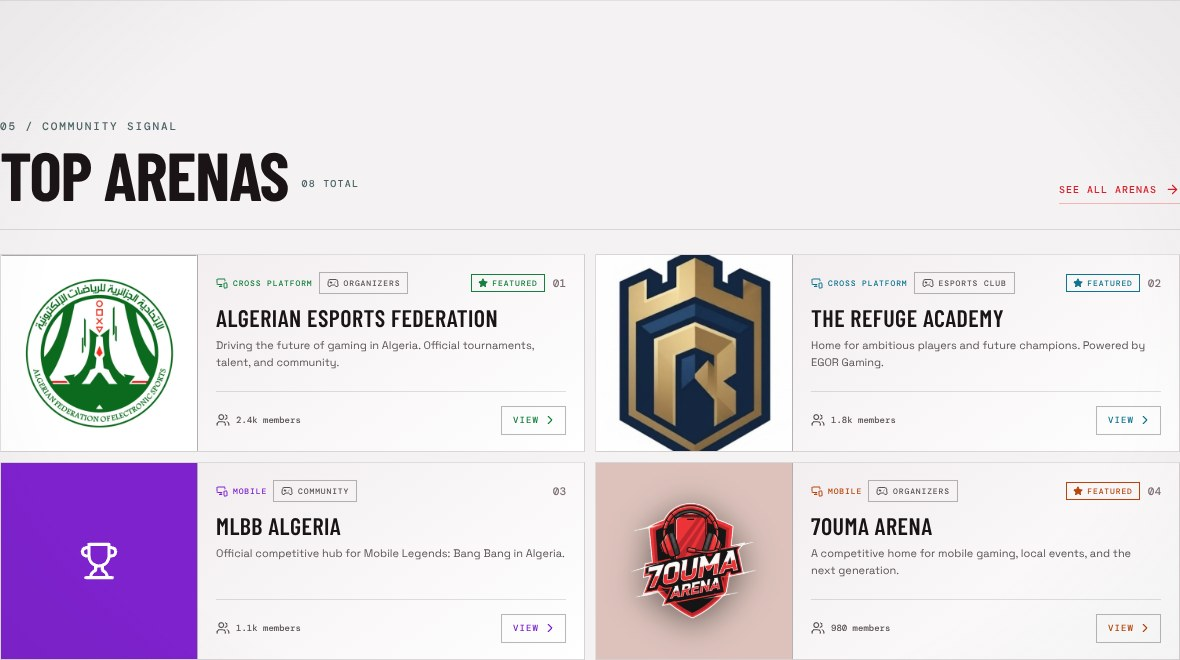
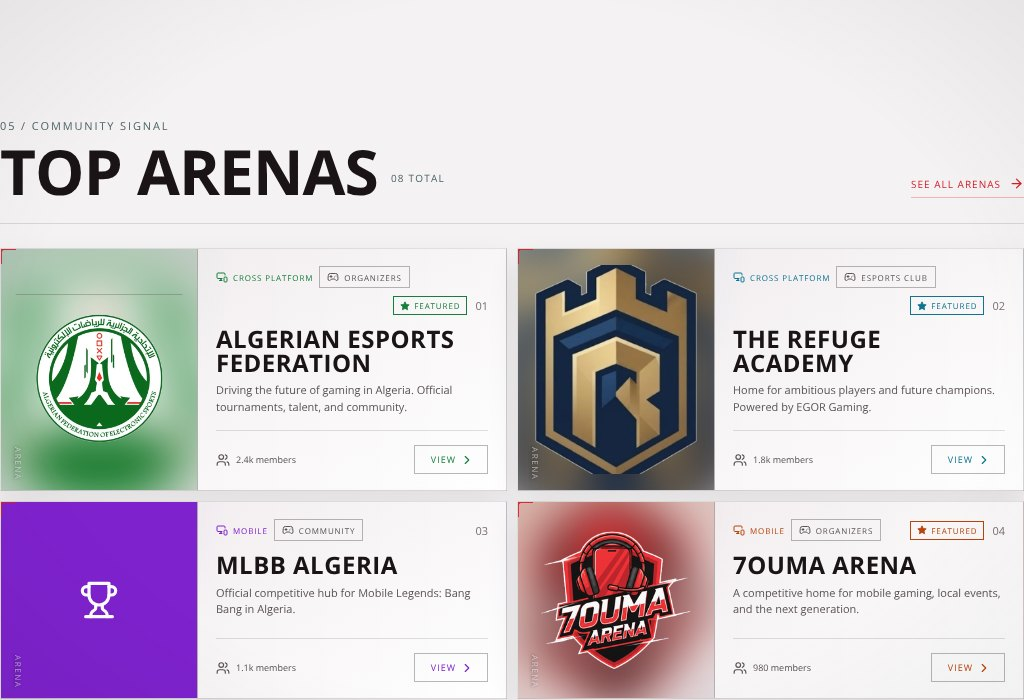
fix(arena cards): fill the whole left panel of section 05 cards
The emblem next to each arena in 05 / COMMUNITY SIGNAL was a 196x196 tile
vertically centred inside the card, so cards whose copy wrapped taller (the
first row) showed an empty band above and below the logo, and avatars that
shipped on a white JPEG canvas rendered as small white squares.

- .arena-emblem now stretches to the card's full height (align-self: stretch)
  and keeps its fixed width, i.e. a full-bleed panel at the card's left edge,
  flush with the top and bottom borders in every row height.
- The logo itself is drawn with object-fit: contain (plus a small inset) so no
  crest, shield or circle gets cropped, while the panel behind it is filled to
  the edges by a blurred, scale-up copy of the same artwork (::before with
  --arena-logo) - no bare card background can show through.
- Cut the white background off the two JPEG avatars (arena-42, arena-39) and
  shipped them as alpha WebP, which is what makes a full-bleed panel possible
  without a visible white box. Dropped the now-unused emblemFit 'float' mode.
- Kept the avatar-less card's solid accent tile with its white trophy; added a
  text-shadow to the vertical ARENA label so it stays legible on light
  backfills. Refreshed docs/screenshots for both themes.

diff --git a/client/src/index.css b/client/src/index.css
@@ -1008,8 +1008,8 @@ a {
 .arena-section {
   padding-top: 112px;
 }
-/* Section 05 — horizontal cards: a square emblem tile bleeds off the left edge,
-   the arena copy and its button live in the rectangle on the right. */
+/* Section 05 — horizontal cards: the arena emblem fills the card's whole left
+   edge, the arena copy and its button live in the rectangle on the right. */
 .arena-grid {
   display: grid;
   grid-template-columns: repeat(2, minmax(0, 1fr));
@@ -1018,7 +1018,8 @@ a {
 }
 .arena-card {
   --accent: var(--lime);
-  /* Reference square size; the tile keeps this height even if the copy grows. */
+  /* Reference height: the card is never shorter than this, and the emblem
+     strip below stretches to whatever height the row ends up with. */
   --arena-square: 196px;
   display: grid;
   grid-template-columns: auto minmax(0, 1fr);
@@ -1043,46 +1044,50 @@ a {
   transform: translateY(-5px);
   border-color: var(--accent);
 }
-/* Left square — the same avatar tile the live lobby puts on each arena card
-   (uploads/arenas/<id>/avatar), scaled up to fill the card's left edge. */
+/* Left strip — the same avatar the live lobby puts on each arena card
+   (uploads/arenas/<id>/avatar), bled across the card's entire left edge.
+   It is a full-height panel, never a floating square: `align-self: stretch`
+   keeps it flush with the card's top and bottom whatever the copy next to it
+   does, so no empty band can appear above or below the logo. */
 .arena-emblem {
   position: relative;
   display: grid;
   place-items: center;
-  align-self: center;
+  align-self: stretch;
   width: var(--arena-square);
-  height: var(--arena-square);
   overflow: hidden;
   background: var(--surface-3);
   color: #fff;
-  transition:
-    border-color 0.2s,
-    background 0.2s;
 }
+/* Backfill: the arena's own artwork, scaled past the strip and blurred, so the
+   panel is completely filled edge to edge no matter what shape the logo is
+   (round crest, shield, alpha-cut PNG, square photo). */
+.arena-emblem::before {
+  content: "";
+  position: absolute;
+  inset: -14%;
+  background-image: var(--arena-logo, none);
+  background-position: center;
+  background-size: cover;
+  filter: blur(22px) saturate(1.15);
+  transform: scale(1.08);
+}
+/* Foreground: the untouched emblem, `contain` so no crest ever gets sliced,
+   sitting on top of its own backfill. */
 .arena-emblem img {
+  position: relative;
   width: 100%;
   height: 100%;
-  object-fit: cover;
+  padding: 7%;
+  object-fit: contain;
   transition: transform 0.25s var(--ease);
 }
 /* No avatar on the original either — solid tone tile with a white trophy. */
 .arena-emblem--empty {
   background: var(--accent);
-  border-color: var(--accent);
 }
-/* Alpha-cut crest: tone wash instead of a hard tile, trimmed logo floats. */
-.arena-emblem--float::before {
-  content: "";
-  position: absolute;
-  inset: 0;
-  background: var(--accent);
-  opacity: 0.16;
-}
-.arena-emblem--float img {
-  position: relative;
-  object-fit: contain;
-  padding: 14%;
-  filter: drop-shadow(0 6px 16px rgb(0 0 0 / 0.5));
+.arena-emblem--empty::before {
+  display: none;
 }
 .arena-card:hover .arena-emblem img {
   transform: scale(1.05);
@@ -3826,7 +3831,9 @@ html:not(.dark) .egor-search-external-link {
   transition: opacity 0.25s;
 }
 .arena-card:hover::after { opacity: 1; }
-.arena-emblem {
+/* Tone wash for strips that carry artwork. The avatar-less strip keeps its
+   solid accent fill (and its white trophy) from the base rule above. */
+.arena-emblem:not(.arena-emblem--empty) {
   background: linear-gradient(145deg, color-mix(in srgb, var(--accent) 24%, var(--surface-3)), var(--surface-3));
 }
 .arena-emblem::after {
@@ -3835,6 +3842,9 @@ html:not(.dark) .egor-search-external-link {
   left: 12px;
   bottom: 10px;
   color: rgba(255, 255, 255, 0.55);
+  /* Cards whose artwork backfills the strip in a light tone (white logo
+     canvases) would swallow the label without this. */
+  text-shadow: 0 1px 3px rgba(0, 0, 0, 0.5);
   font: 500 8px var(--mono);
   letter-spacing: 0.2em;
   writing-mode: vertical-rl;

diff --git a/client/src/pages/Home.tsx b/client/src/pages/Home.tsx
@@ -300,9 +300,12 @@ export const getGameForItem = (gameName: string): GameItem => {
  *
  *  - `logo` holds the arena's own emblem, taken straight from the original
  *    uploads (`https://app.egorgaming.com/uploads/arenas/<id>/avatar/…`) and
- *    shipped from `client/public/arenas/`. Arenas that have no avatar of their
- *    own get the same fallback the original renders: a solid tile with a white
- *    trophy (see the markup below).
+ *    shipped from `client/public/arenas/`. The two original JPEG avatars came on
+ *    a white canvas, so their background was cut out before shipping (alpha
+ *    WebP) — that is what lets the emblem bleed across the card's full-height
+ *    left strip instead of showing up as a small white square. Arenas that have
+ *    no avatar of their own get the same fallback the original renders: a solid
+ *    tile with a white trophy (see the markup below).
  *  - `platform` / `category` are the two chips printed under each card on the
  *    original — platform uses `MonitorSmartphone`, the category pill uses
  *    `Gamepad2`, both lucide icons, exactly like the source site.
@@ -319,11 +322,6 @@ const arenas: {
   tone: string;
   featured?: boolean;
   logo?: string;
-  /**
-   * `tile` (default) fills the emblem frame with a raster avatar the way the
-   * original does; `float` keeps an alpha-cut emblem floating on the card.
-   */
-  emblemFit?: "tile" | "float";
 }[] = [
   {
     name: "ALGERIAN ESPORTS FEDERATION",
@@ -334,7 +332,7 @@ const arenas: {
     desc: "Driving the future of gaming in Algeria. Official tournaments, talent, and community.",
     tone: "lime",
     featured: true,
-    logo: "/arenas/arena-42.jpg",
+    logo: "/arenas/arena-42.webp",
   },
   {
     name: "THE REFUGE ACADEMY",
@@ -345,7 +343,7 @@ const arenas: {
     desc: "Home for ambitious players and future champions. Powered by EGOR Gaming.",
     tone: "blue",
     featured: true,
-    logo: "/arenas/arena-39.jpg",
+    logo: "/arenas/arena-39.webp",
   },
   {
     name: "MLBB ALGERIA",
@@ -367,7 +365,6 @@ const arenas: {
     tone: "orange",
     featured: true,
     logo: "/arenas/7ouma-arena.png",
-    emblemFit: "float",
   },
 ];
 
@@ -1324,11 +1321,20 @@ export default function Home() {
                 className={`arena-card arena-card--${arena.tone}`}
                 key={arena.name}
               >
-                {/* Left square: the arena emblem tile the lobby uses as avatar. */}
+                {/* Left strip: the arena emblem bled across the card's full
+                    left edge — the panel is as tall as the card, and the
+                    artwork backfills it (see .arena-emblem in index.css). */}
                 <div
                   className={`arena-emblem${
                     arena.logo ? "" : " arena-emblem--empty"
-                  }${arena.emblemFit === "float" ? " arena-emblem--float" : ""}`}
+                  }`}
+                  style={
+                    arena.logo
+                      ? ({
+                          "--arena-logo": `url(${assetUrl(arena.logo)})`,
+                        } as CSSProperties)
+                      : undefined
+                  }
                 >
                   {arena.logo ? (
                     <img
